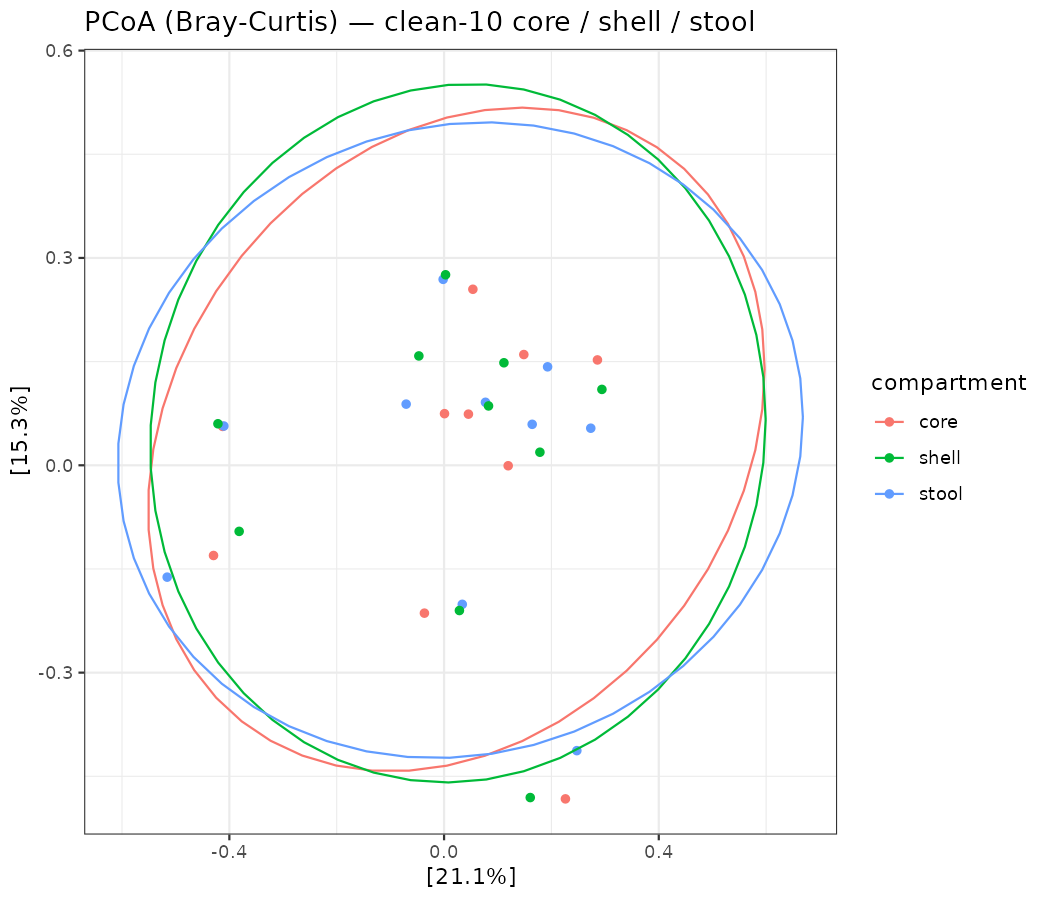
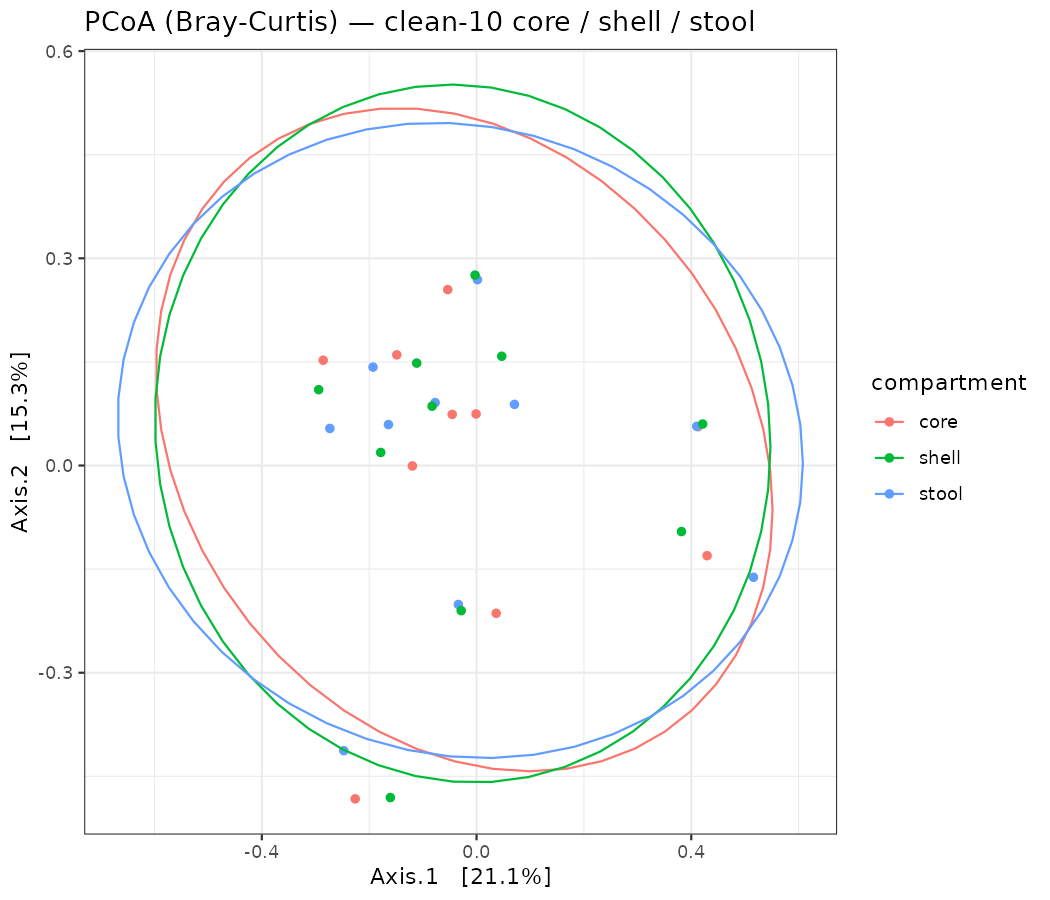
Address code-review: stats scope docs, reproducible env, scope-trim, alpha caveat
Four real items from an external review of this subset (numbers unchanged;
alpha/beta/PERMANOVA/DA all still reproduce CoralShot):

1. Docs vs scope (README): this repo now ships a phyloseq/vegan verification
   layer (alpha/beta/PERMANOVA + MaAsLin2 DA), so the "no stats" wording was
   wrong. README scope corrected; a "Statistics — phyloseq + vegan" section
   documents the four R scripts, the env, and the expected numbers.

2. Stats reproducible from checked-in envs (was: only cs_profile/cs_viz, no
   phyloseq/vegan/ggplot2/Maaslin2; scripts pinned to a Torch R-lib path):
   - add envs/cs_stats.yml (phyloseq + vegan + ggplot2 + Maaslin2) — ONE env
     that runs all four R scripts. Verified: they load cs_stats' own phyloseq
     1.46 (not the site R_libs) and reproduce every number.
   - make .libPaths conditional: prepend the Torch R_libs ONLY if phyloseq is
     not already available -> portable on a clean clone.

6. Alpha "Observed" caveat: it is # detected species/SGBs (MetaPhlAn presence),
   not rarefied count richness. Header + a printed NOTE now say so explicitly.

7. Out-of-scope leftovers:
   - submit.sh trimmed to the stages actually shipped (s0host s1 s2 s3 s4 s4b);
     removed dangling parent cases (s5-s8c, s9*, dark_orfs, evo2) + asm_units.
   - s4_metaphlan.sbatch: dropped the StrainPhlAn sample2markers step + marker
     SAM output (strain analysis is not in this abundance-only subset).
[…]

diff --git a/README.md b/README.md
@@ -6,8 +6,10 @@ core/shell sampling device (Ramadi Lab, NYU). Minimal, reproducible pipeline:
 composition** (drawn both with matplotlib and with phyloseq).
 
 > 📋 **Copy-paste runbook:** [`RUN_AND_VERIFY.txt`](RUN_AND_VERIFY.txt) — every command, grouped and ready.
-> Extracted from the parent **CoralShot** project — this repo is the read→relative-abundance subset only
-> (no assembly/MAGs, strain, HUMAnN, virome, or stats).
+> Extracted from the parent **CoralShot** project — the read→relative-abundance subset **plus a
+> phyloseq/vegan verification layer** (alpha / beta / participant-blocked PERMANOVA + MaAsLin2
+> differential abundance). The heavy downstream (assembly/MAGs, strain, HUMAnN, virome, AMR/BGC)
+> stays in CoralShot.
 
 ---
 
@@ -65,6 +67,33 @@ BASE=$PWD /scratch/sr7729/conda_envs/cs_profile/bin/Rscript scripts/phyloseq_rel
 Load the object in R: `ps <- readRDS("results/phyloseq/coralp_ps.rds")` — then `tax_glom(ps,"Genus")`
 relative abundance equals the `|g__` numbers exactly (Bifidobacterium P01M_C = 0.08849).
 
+## Statistics — phyloseq + vegan verification layer
+
+An independent phyloseq + vegan layer reproduces the CoralShot compartment analysis and prints each
+number next to its CoralShot reference. **Environment:** create `cs_stats` from
+[`envs/cs_stats.yml`](envs/cs_stats.yml) — one env with phyloseq, vegan, ggplot2, and MaAsLin2 runs
+**all four** R scripts. No site-specific R-library path is required: the scripts prepend the Torch
+`R_libs` path only if it exists, otherwise they use the conda env's own libraries.
+
+```bash
+conda env create -p /scratch/sr7729/conda_envs/cs_stats -f envs/cs_stats.yml   # if missing
+RS=/scratch/sr7729/conda_envs/cs_stats/bin/Rscript
+BASE=$PWD $RS scripts/make_phyloseq.R        # -> results/phyloseq/coralp_ps.rds (817 sp × 53) + figures/stacked_composition_phyloseq.png
+BASE=$PWD $RS scripts/phyloseq_relabund.R    # genus relabund cross-check (sample sums = 1)
+BASE=$PWD $RS scripts/downstream_analysis.R  # alpha (Friedman) + Bray-Curtis + participant-blocked PERMANOVA + PCoA -> figures/pcoa_braycurtis_phyloseq.png
+BASE=$PWD $RS scripts/maaslin_da.R           # REAL MaAsLin2 (v1.18.0): all-13 + clean-10
+```
+
+| Result (clean-10 unless noted) | Value |
+|---|---|
+| alpha Shannon — core / shell / stool | 3.31 / 3.77 / 3.25 (Friedman p ≈ 0.02–0.05) |
+| Bray-Curtis medians — core-stool / core-shell / shell-stool | 0.360 / 0.301 / 0.334 |
+| PERMANOVA omnibus (adonis2, blocked within participant) | R² 0.016, F 0.22, p ≈ 0.21 |
+| Differential abundance (MaAsLin2) | *Streptococcus mitis* ↑ core — all-13 q = 0.0022; clean-10 q = 0.026 |
+
+`Observed` alpha = **# detected species/SGBs** (MetaPhlAn presence), *not* rarefied count richness
+(MetaPhlAn emits no read counts to rarefy) — read it as detected taxa.
+
 ## Sample naming — control / core / stool / shell
 
 Library IDs are `<subject><arm>_<compartment>`:
@@ -101,8 +130,8 @@ python scripts/build_manifest.py     # -> manifest.tsv, filelist.txt, asm_units.
 # then run the s1->s4->s4b chain + figures as in "Run it" above.
 ```
 
-> `submit.sh` still lists parent-project stages (`s5`, `s6`, `s7`, …) — **only `s1`–`s4` apply here**;
-> the other cases reference scripts not shipped in this subset.
+> `submit.sh` dispatches only the stages shipped here: **`s0host s1 s2 s3 s4 s4b`** (any other name
+> is rejected). The phyloseq/stats layer is run directly, not through the dispatcher.
 
 ## Requirements
 
@@ -122,7 +151,7 @@ python scripts/build_manifest.py     # -> manifest.tsv, filelist.txt, asm_units.
 
 Raw FASTQs, reference DBs, and pipeline outputs are **gitignored** (regenerated) — except the two
 figures and the phyloseq `.rds`, committed as ready-to-use artifacts. This repo is otherwise code
-only; downstream analysis (assembly, MAGs, strain, function, virome, stats) lives in parent CoralShot.
+only; the heavy downstream (assembly, MAGs, strain, function, virome, AMR/BGC) lives in parent CoralShot.
 
 ## License
 